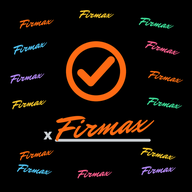
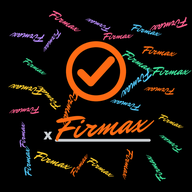
Firmas en laberinto

diff --git a/sw.js b/sw.js
@@ -1,5 +1,5 @@
 /* Service worker – Firmas Drywall Enterprise (offline) */
-const CACHE = 'firmax-v8';
+const CACHE = 'firmax-v9';
 // Imprescindibles: si falla alguno, la instalación falla
 const CORE = [
  "./",
